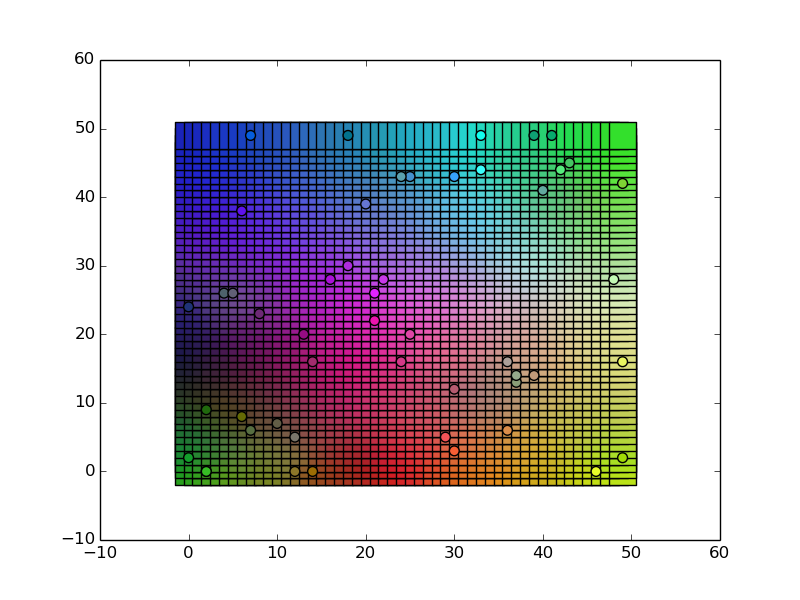
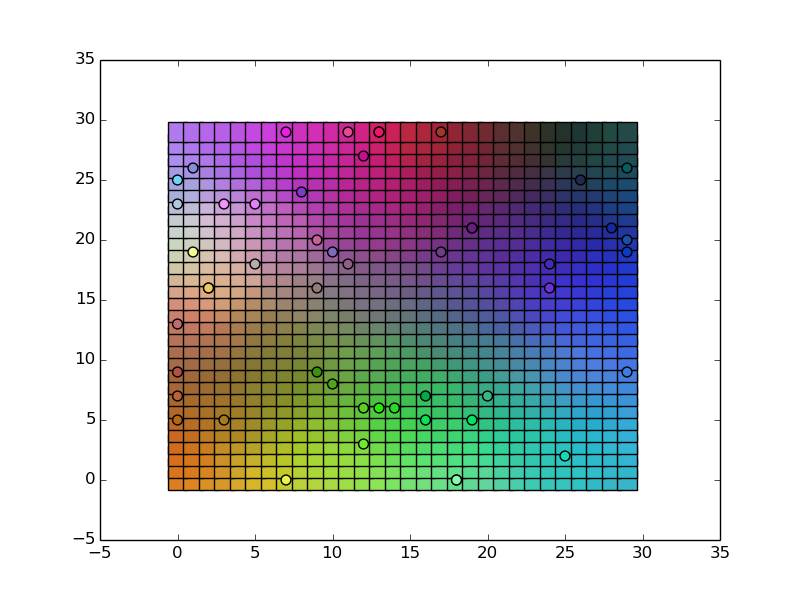
Correctly normalize input data and keep original data

diff --git a/som.py b/som.py
@@ -1,11 +1,11 @@
 #!/usr/bin/env python
 
-import sys
-import random 
+from copy import deepcopy
+from random import random, choice
 import math
 
 def meanAndStd(x):
-    """Return mean and standard devation of a list."""
+    """Return mean and standard devation of a list of floats."""
     N = len(x)
     m = sum(x)/float(N)
     v = sum([ math.pow(x[i]-m,2.0) for i in xrange(N) ])/(N-1)
@@ -13,6 +13,7 @@ def meanAndStd(x):
 
 def squareDistance(x,y):
     """Return squared Euclidian distance between points x and y."""
+    assert(len(x)==len(y)), "Input vectors are of unequal size."
     return sum([ math.pow(x[i]-y[i],2) for i in xrange(len(x)) ])
 
 def distance(x,y):
@@ -23,7 +24,7 @@ class map():
     def __init__(self, data, nnodes=100, dimension=2, normalize=True):
         """Set up a self-organizing map to model input data.
         Input data should be a list of lists (2D array-like)
-        with no headers.
+        of floats.
         """
         self.data           = data            
         self.ndata          = len(data)
@@ -48,33 +49,34 @@ class map():
         print "Checking input data...",
         assert(self.ndata > 0), "No input data!"
         for row in self.data:
-            assert(len(row) == self.highDimension), "Input data is not a regular matrix!"
+            assert(len(row) == self.highDimension), "Input data is not a rectangular matrix!"
             row = [ float(i) for i in row ]
         assert(self.nnodes > 0), "No nodes!"
-        assert(self.lowDimension > 0 and self.lowDimension < self.highDimension), "Bad dimensions!"
+        assert(self.lowDimension > 0 and self.lowDimension < self.highDimension), "Bad map dimensions!"
         print "Done."
         print "Ready to map {}-D data to {}-D representation.".format(self.highDimension, self.lowDimension)
         print "Using {} nodes.".format(self.nnodes)
         print "Training set size: {}".format(self.ndata)
         print "Map length: {}".format(self.mapLength)
 
-
     def normalizeData(self):
         """Normalize input data by converting to z-values,
         i.e. (x-m)/s  where m is the mean and s is the standard deviation.
         If s == 0 then we will be ignoring this descriptor in the future.
         Save the m and s values so we can transform back to original data scale.
+        normalizedData will hold the newly normalized data, while
+        data while hold the original data.
         """
         print "Normalizing Data...",
-        self.originalData = self.data[:]
+        self.normalizedData = deepcopy(self.data)
         self.normalizationParameters = []
         for d in xrange(self.highDimension):
-            dmean, dstd = meanAndStd([ x[d] for x in self.originalData ])
+            dmean, dstd = meanAndStd([ x[d] for x in self.data ])
             self.normalizationParameters.append((dmean,dstd))
             if dstd == 0.:
                 self.ignoreColumns.append(d)
             else:
-                for row in self.data:
+                for row in self.normalizedData:
                     row[d] = (row[d]-dmean)/dstd
         print 'Done.'
         if(len(self.ignoreColumns)>0):
@@ -87,8 +89,7 @@ class map():
             if d in self.ignoreColumns:
                 continue
             else:
-                u = self.normalizationParameters[d][0]
-                s = self.normalizationParameters[d][1]
+                u,s = self.normalizationParameters[d]
                 x2[d] = (x[d]-u)/s
         return x2
 
@@ -99,22 +100,24 @@ class map():
             if d in self.ignoreColumns:
                 continue
             else:
-                u = self.normalizationParameters[d][0]
-                s = self.normalizationParameters[d][1]
+                u,s = self.normalizationParameters[d]
                 x2[d] = (x[d]*s)+u
         return x2
 
     def initializeMap(self):
         #Assume a 2D map for now
-        self.initialize2DMap()
+        if self.lowDimension == 2:
+            self.initialize2DMap()
+        else:
+            raise ValueError("Only 2D maps are available.")
 
     def initialize2DMap(self):
-        """Randomly set intial node positions in higher dimensional space,
+        """Randomly set initial node positions in higher dimensional space,
         and place into regular square grid in 2D space. Initial positions in 
         high-dimensional space will be random but within 2 sigma.
         """
         for inode in xrange(self.nnodes):
-            highCoords = [ random.random()*2.*random.choice([-1.,1.]) for i in xrange(self.highDimension) ]
+            highCoords = [ random()*2.*choice([-1.,1.]) for i in xrange(self.highDimension) ]
             lowX = inode % self.mapLength
             lowY = inode / self.mapLength
             lowCoords = [lowX,lowY]
@@ -153,7 +156,12 @@ class map():
             if progress:
                 if istep % int((nsteps/10.)) == 0:
                     print '{}% done'.format(float(istep)/nsteps*100)
-            randomDataPoint = random.choice(self.data)
+            
+            if self.normalize:
+                randomDataPoint = choice(self.normalizedData)
+            else:
+                randomDataPoint = choice(self.data)
+
             closestNodeIndex = self.findBestMatch(randomDataPoint)
             searchRadius2 =  math.pow(radius0*math.exp(-float(istep)/nsteps*tscale),2)
             learningRate = learn0*math.exp(-float(istep)/nsteps)

diff --git a/colors_example.py b/colors_example.py
@@ -3,28 +3,29 @@
 #Generate a 2D self-organizing map of 3D RGB color space.
 #Generate a test set of colors and predict their positions in the 2D representation.
 
-import random
+from random import random
 from matplotlib import pyplot as plt
 
 import som
 
+ntrain=500
+ntest= 50
+
 #Generate training data in RGB space (random colors)
-ntrain=1000
-color_data = [ [ random.random()*255 for i in xrange(3) ] for i in xrange(ntrain) ]
+color_data = [ [ random()*255 for i in xrange(3) ] for i in xrange(ntrain) ]
 
 #Create map object
-mymap = som.map(color_data, nnodes=2500, dimension=2)
+mymap = som.map(color_data, nnodes=900)
 
 #Train map
-mymap.train(nsteps=2000)
+mymap.train(nsteps=1000, progress=True)
 
 #Generate test set of random colors, predict their map coordinates.
-ntest = 50
 test_x      = []
 test_y      = []
 test_color  = []
 for i in xrange(ntest):
-    t = [ random.random()*255 for j in xrange(3) ]
+    t = [ random()*255 for j in xrange(3) ]
     #Predict position in map
     pred = mymap.classify(t)
     test_color.append([ j/255. for j in t ])
@@ -32,17 +33,17 @@ for i in xrange(ntest):
     test_y.append(pred[1])
 
 #Generate plots
-xs = [ i.lowCoords[0] for i in mymap.nodes ]
-ys = [ i.lowCoords[1] for i in mymap.nodes ]
-colors = []
+nodexs = [ i.lowCoords[0] for i in mymap.nodes ]
+nodeys = [ i.lowCoords[1] for i in mymap.nodes ]
+nodecolors = []
 for i in xrange(mymap.nnodes):
     c = mymap.unnormalizeDataPoint(mymap.nodes[i].highCoords)
     c = [ c[i]/255. if (c[i] > 0) else 0. for i in xrange(len(c)) ]
-    colors.append(c)
+    nodecolors.append(c)
 
-#Plot map
-plt.scatter(xs,ys,c=colors,s=400,marker='s')
-#Plot test data predictions
+#Plot nodes
+plt.scatter(nodexs,nodeys,c=nodecolors,s=200,marker='s')
+#Plot predicted positions of test data
 plt.scatter(test_x,test_y,c=test_color,s=50,marker='o')
 plt.savefig('colors_example.png')
 
